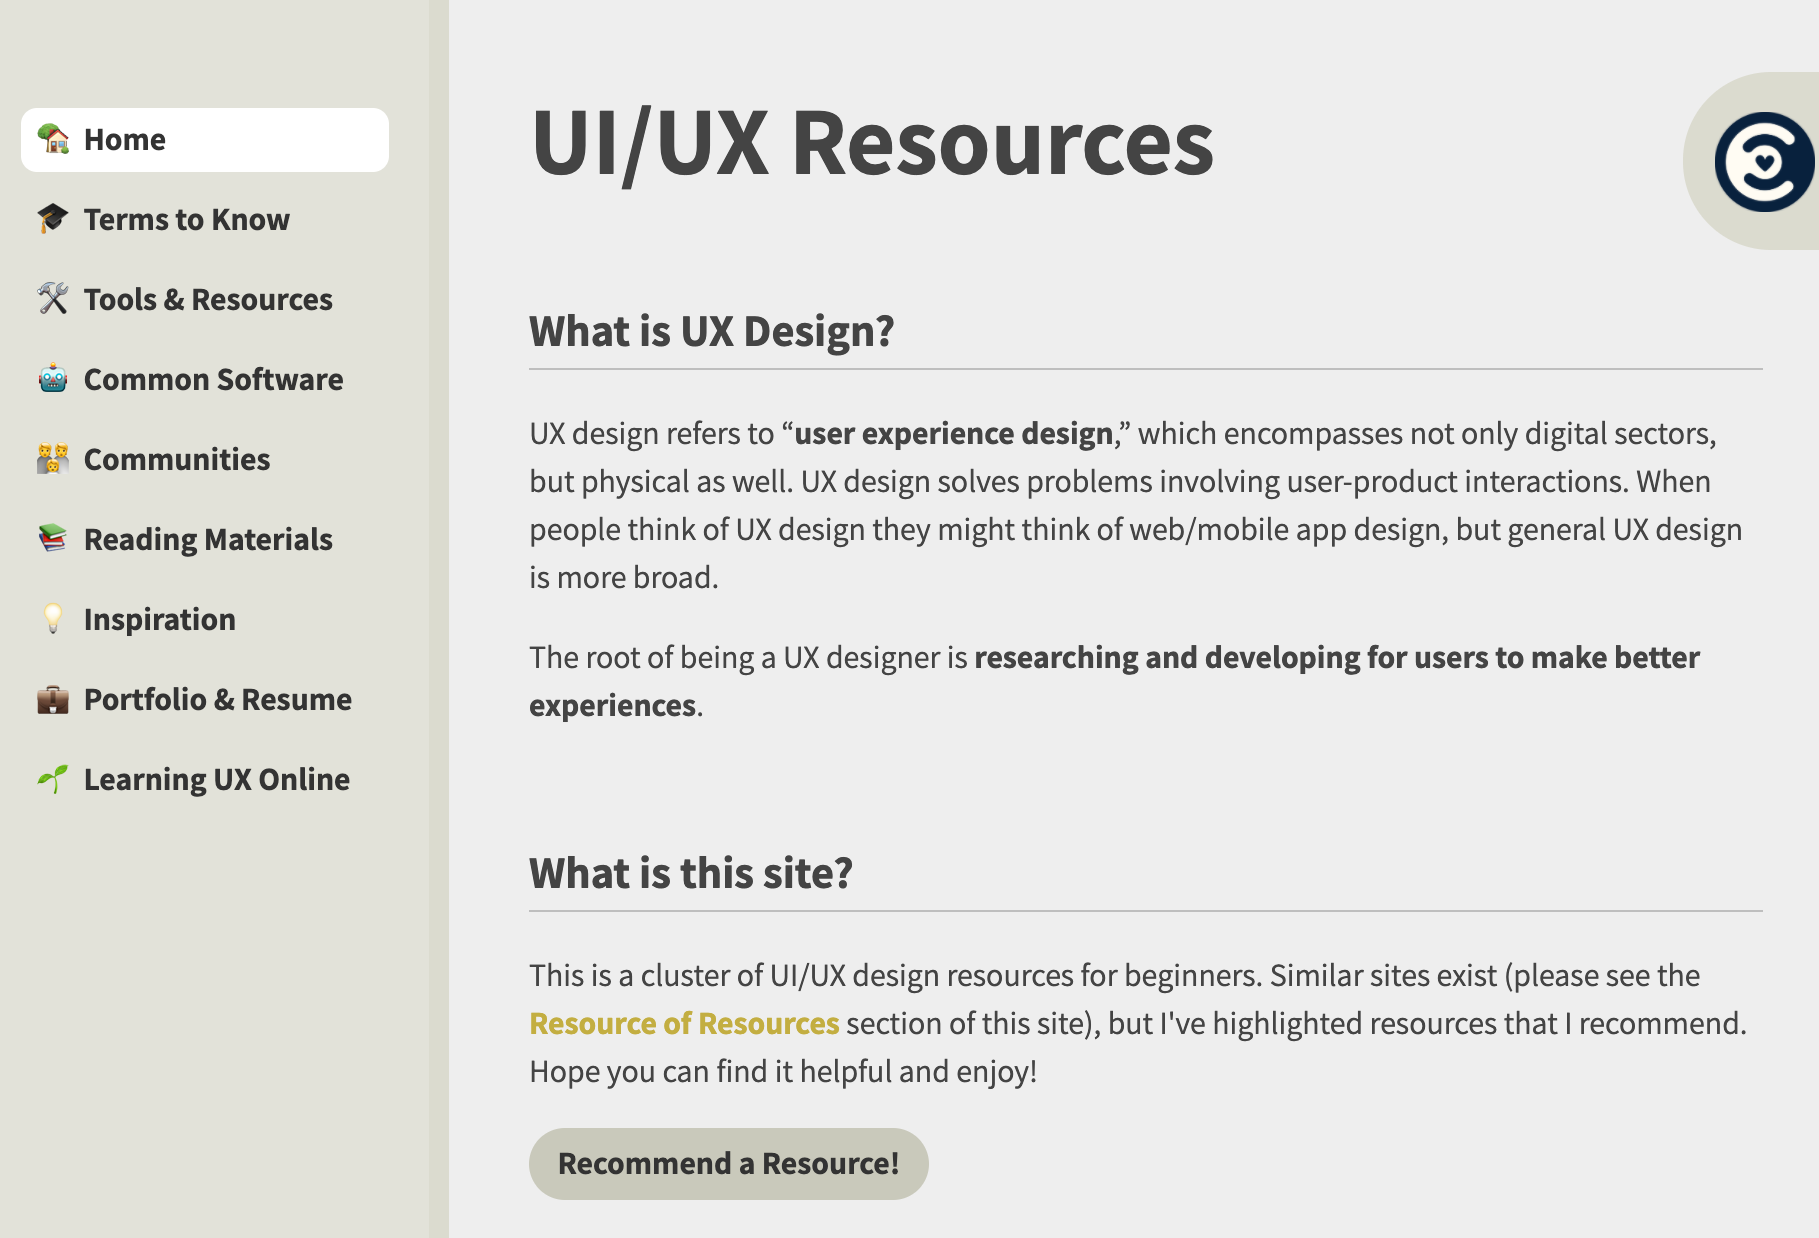
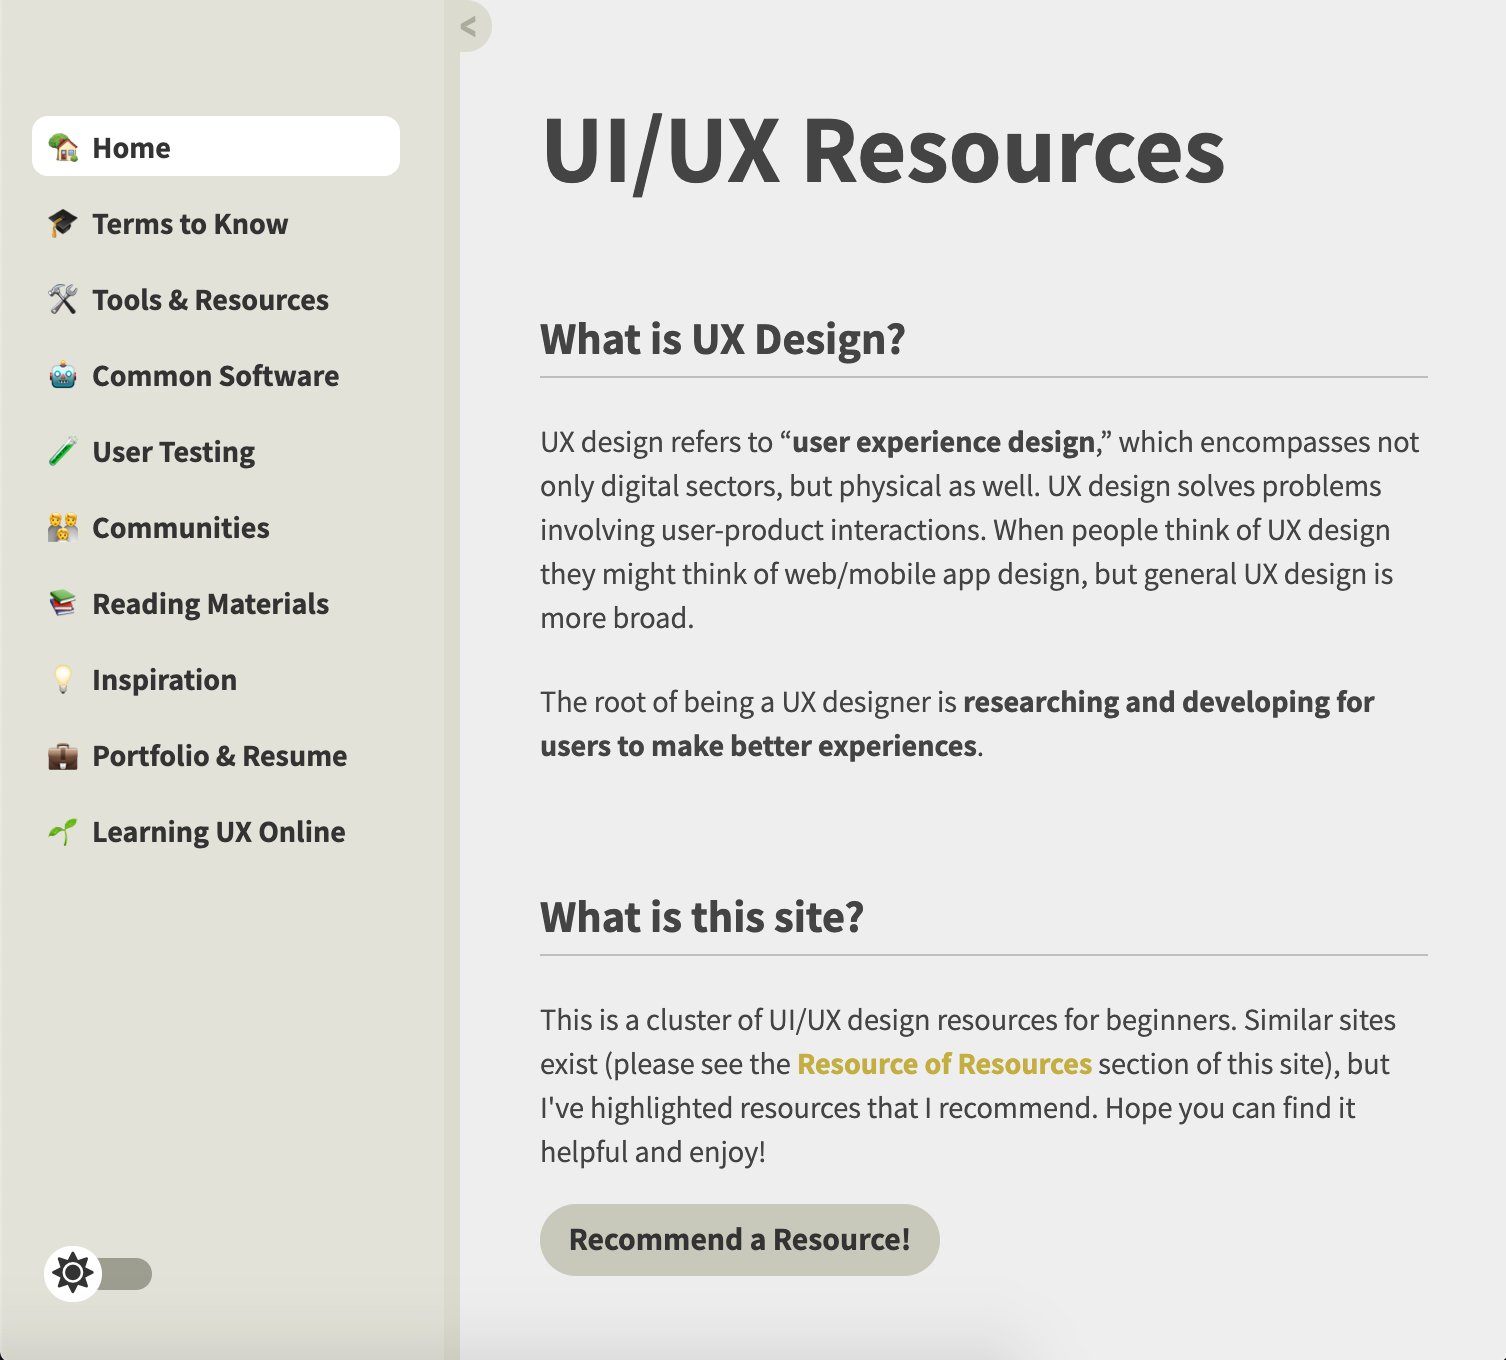
Changed Styling

diff --git a/stylescripts/stylesheet.css b/stylescripts/stylesheet.css
@@ -84,7 +84,7 @@ header {
     padding-top: 80px;
     margin-bottom: 30px;
     width: 100vw;
-    height: 300px;
+    height: 360px;
     justify-content: center;
     align-items: center;
     overflow: hidden;
@@ -439,34 +439,7 @@ section.webMockup {
 
 /** Queries ***************************************************************************************/
 
-@media only screen and (max-width: 1300px) {
-    .projectModule section {
-        width: 460px;
-    }
-}
-
-@media only screen and (max-width: 1200px) {
-    .projectModule section {
-        width: 400px;
-    }
-}
-
 @media only screen and (max-width: 1024px) {
-    .projectModule {
-        align-items: center;
-        justify-content: center;
-    }
-    .projectModule section {
-        width: 80vw;
-    }
-    .projectModule a img {
-        width: 100%;
-        height: auto;
-    }
-    .projectModule h2 {
-        position: relative;
-        top: -40vw;
-    }
     .gallery img {
         width: 100%;
         height: auto;
@@ -491,19 +464,6 @@ section.webMockup {
 @media only screen and (max-width: 725px) {
     nav ul {
         margin-right: 50px;
-    }
-    .projectModule section a {
-        height: inherit;
-    }
-    .projectModule section a img {
-        width: auto;
-        height: 100%;
-    }
-    .projectModule h2 {
-        top: -220px;
-    }
-    img#profile, #profile2 {
-        width: 80vw;
     }
 }
 
@@ -533,49 +493,4 @@ nav .projectSecDark:hover, .important.projectSecDark:hover {
 .important {
     position: relative;
     left: -12px;
-}
-
-
-/** Coffee Button ***************************************************************************************/
-
-.bmc-button img {
-    height: 34px;
-    width: 35px;
-    margin-bottom: 1px !important;
-    box-shadow: none !important;
-    border: none !important;
-    vertical-align: middle !important;
-}
-
-.bmc-button {
-    justify-self: flex-start;
-    padding: 7px 10px 7px 10px !important;
-    line-height: 35px !important;
-    height: 51px !important;
-    min-width: 217px !important;
-    text-decoration: none !important;
-    display: inline-flex !important;
-    color: #ffffff !important;
-    background-color: #1f3c5e !important;
-    border-radius: 25px !important;
-    border: 1px solid transparent !important;
-    padding: 7px 10px 7px 10px !important;
-    font-size: 20px !important;
-    letter-spacing: -0.08px !important;
-    margin: 0 auto !important;
-    font-family: 'Source Sans Pro', sans-serif !important;
-    -webkit-box-sizing: border-box !important;
-    box-sizing: border-box !important;
-    -o-transition: 0.3s all linear !important;
-    -webkit-transition: 0.3s all linear !important;
-    -moz-transition: 0.3s all linear !important;
-    -ms-transition: 0.3s all linear !important;
-    transition: 0.3s all linear !important;
-    z-index: 1;
-}
-
-.bmc-button:hover, .bmc-button:active, .bmc-button:focus {
-    text-decoration: none !important;
-    opacity: 0.85 !important;
-    color: #ffffff !important;
 }

diff --git a/index.html b/index.html
@@ -91,7 +91,7 @@
 
         <article>
             <div class="imgContainer">
-                <a href="projects/dwella.html"><img src="projects/dwella/dwella1.png" alt="Project Image"></a>
+                <a href="projects/dwella.html"><img src="projects/dwella/dwella5.png" alt="Project Image"></a>
             </div>
             <div class="projectDetails">
                 <h3>Dwella</h3>

diff --git a/projects/uiuxresource.html b/projects/uiuxresource.html
@@ -32,7 +32,7 @@
 <body id="dwella" class="project">
     <div>
         <header>
-            <img src="uiuxresource/uiuxresource.png" alt="Header Image">
+            <img src="uiuxresource/uiux-header.png" alt="Header Image">
             <h1>UI/UX Resources</h1>
             <p>Website and Google Doc Resource for UI/UX Designers</p>
         </header>
